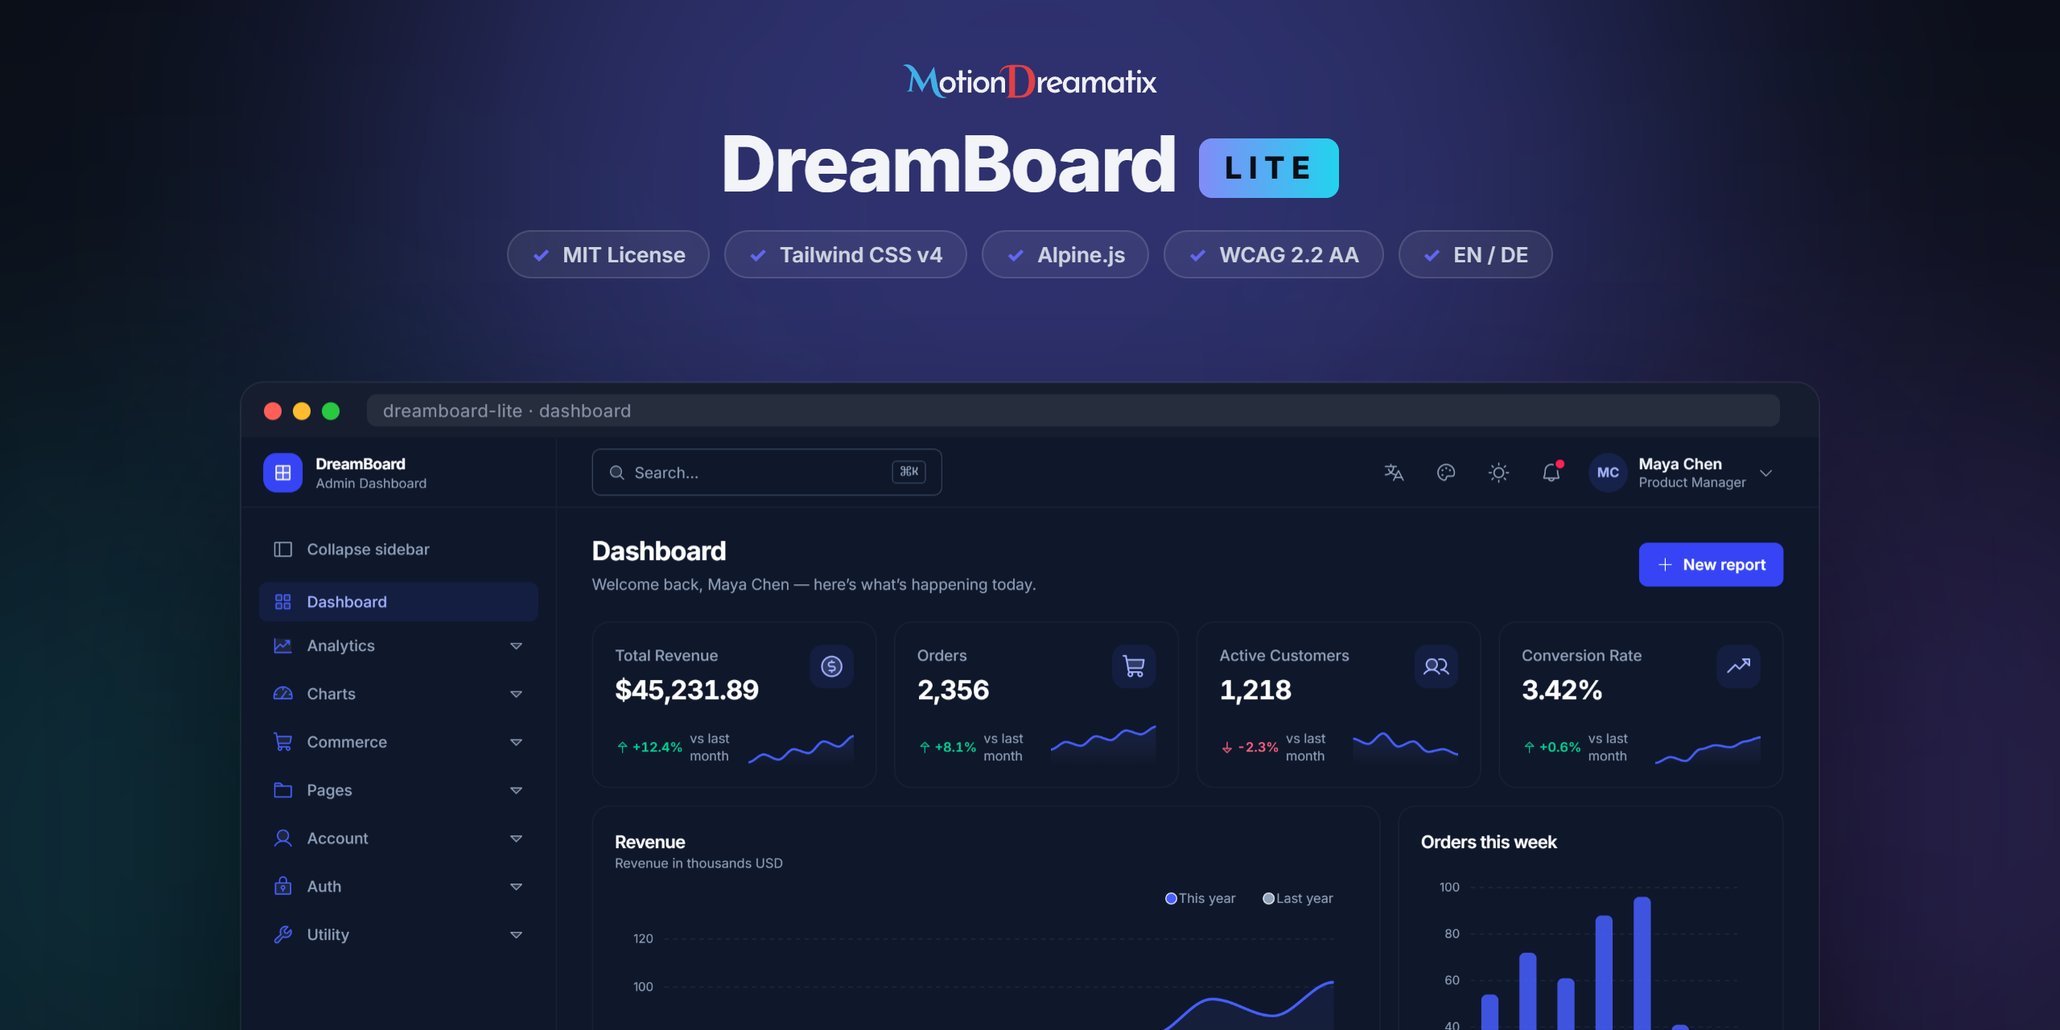
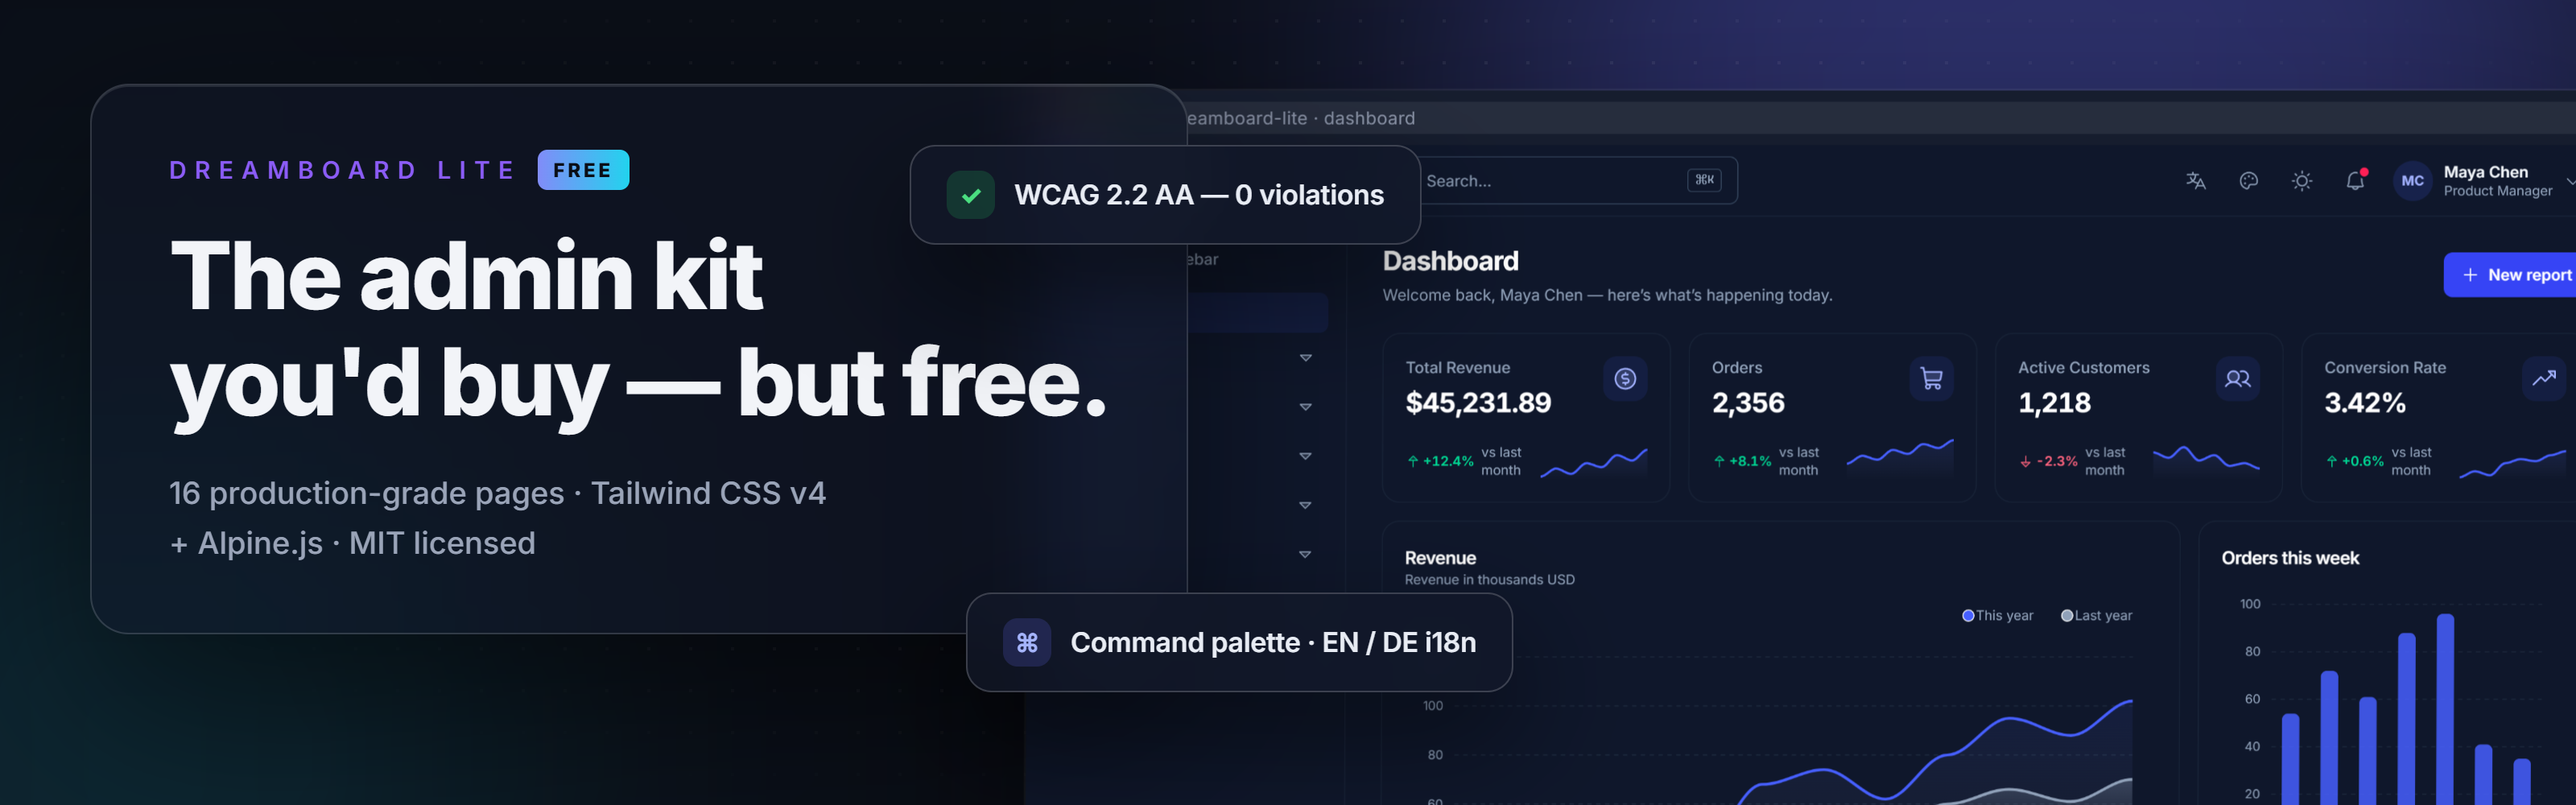
sync: DreamBoard Lite v1.1.0

diff --git a/README.md b/README.md
@@ -1,19 +1,39 @@
 <div align="center">
 
+<picture>
+  <source media="(prefers-color-scheme: dark)" srcset="https://motiondreamatix.de/assets/logos/mdx/svg/wortmarke-white.svg">
+  <img src="https://motiondreamatix.de/assets/logos/mdx/svg/wortmarke.svg" alt="MotionDreamatix" width="290">
+</picture>
+
+<p></p>
+
+<h1>DreamBoard Lite</h1>
+
+<p>
+  <img src="https://img.shields.io/badge/license-MIT-6366f1" alt="MIT license">
+  <img src="https://img.shields.io/badge/Tailwind_CSS-v4-38bdf8?logo=tailwindcss&logoColor=white" alt="Tailwind CSS v4">
+  <img src="https://img.shields.io/badge/Alpine.js-3.x-8bc0d0?logo=alpinedotjs&logoColor=white" alt="Alpine.js">
+  <img src="https://img.shields.io/badge/a11y-WCAG_2.2_AA-22c55e" alt="WCAG 2.2 AA">
+  <img src="https://img.shields.io/badge/i18n-EN_%2F_DE-8b5cf6" alt="i18n EN / DE">
+</p>
+
+<p>
+  <strong>The free edition of DreamBoard</strong> — a production-grade
+  admin dashboard UI kit. Lite ships 16 hand-picked pages from
+  the full 56-page kit so you can evaluate the real codebase —
+  or ship a small admin for free, forever.
+</p>
+
+<p>
+  <a href="https://v1.dreamboard.motiondreamatix.de/html/">Live demo</a> ·
+  <a href="https://motiondreamatix.gumroad.com/l/dreamboard">Full kit on Gumroad</a> ·
+  <a href="https://motiondreamatix.de/portfolio/18/dreamboard-multi-stack-ui-kit">Portfolio</a> ·
+  <a href="https://motiondreamatix.de/blog/gumroad-shop-eroeffnung-dreamboard">Blog: the story behind it</a>
+</p>
+
 <a href="https://v1.dreamboard.motiondreamatix.de/html/">
-  <img src="docs/hero.png" alt="DreamBoard Lite — Tailwind CSS + Alpine.js admin dashboard, shown in dark mode" width="640">
+  <img src="docs/hero.png" alt="DreamBoard Lite — Tailwind CSS + Alpine.js admin dashboard, shown in dark mode" width="800">
 </a>
-
-**The free edition of DreamBoard** — a production-grade admin dashboard
-UI kit built with **Tailwind CSS v4 + Alpine.js**. Lite ships
-16 hand-picked pages from the full 56-page kit so you
-can evaluate the real codebase — or ship a small admin for free,
-forever. MIT licensed.
-
-[Live demo](https://v1.dreamboard.motiondreamatix.de/html/) ·
-[Full kit on Gumroad](https://motiondreamatix.gumroad.com/l/dreamboard) ·
-[Portfolio](https://motiondreamatix.de/portfolio/18/dreamboard-multi-stack-ui-kit) ·
-[Blog: the story behind it](https://motiondreamatix.de/blog/gumroad-shop-eroeffnung-dreamboard)
 
 </div>
 
